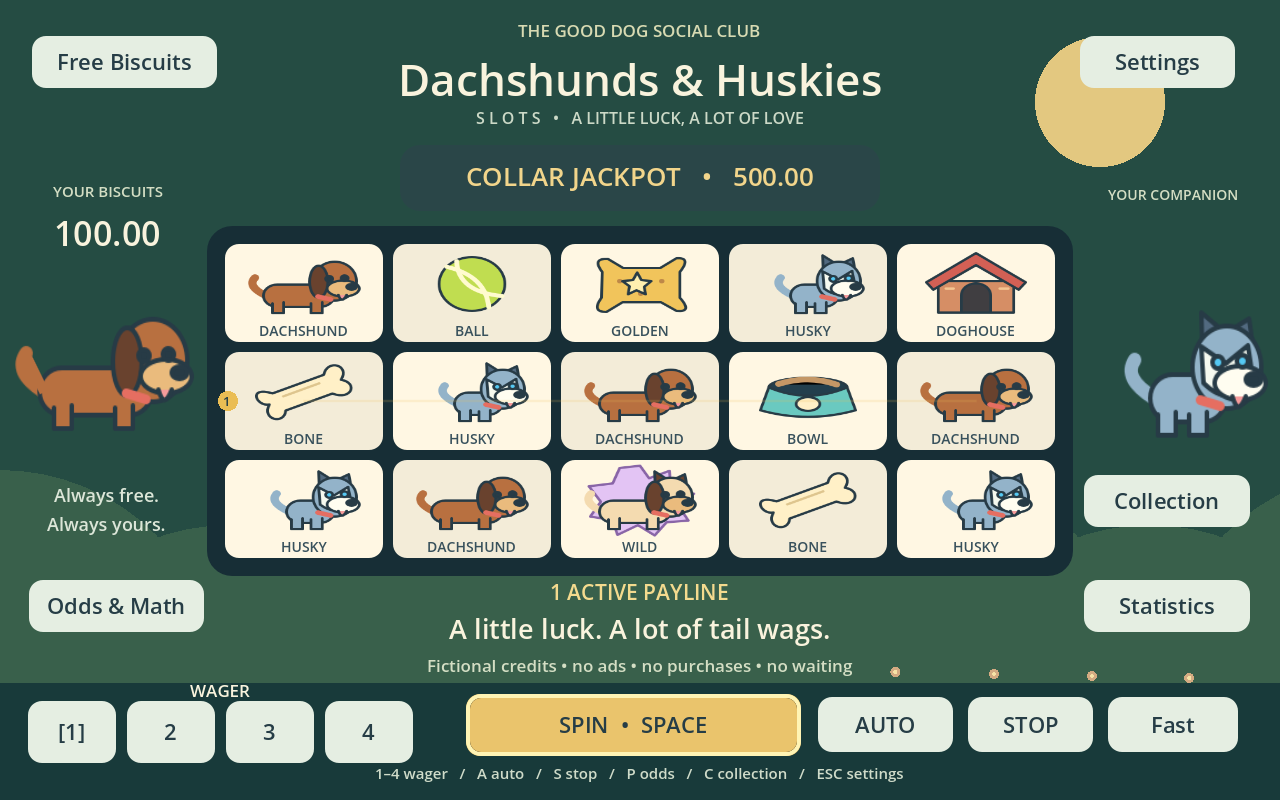
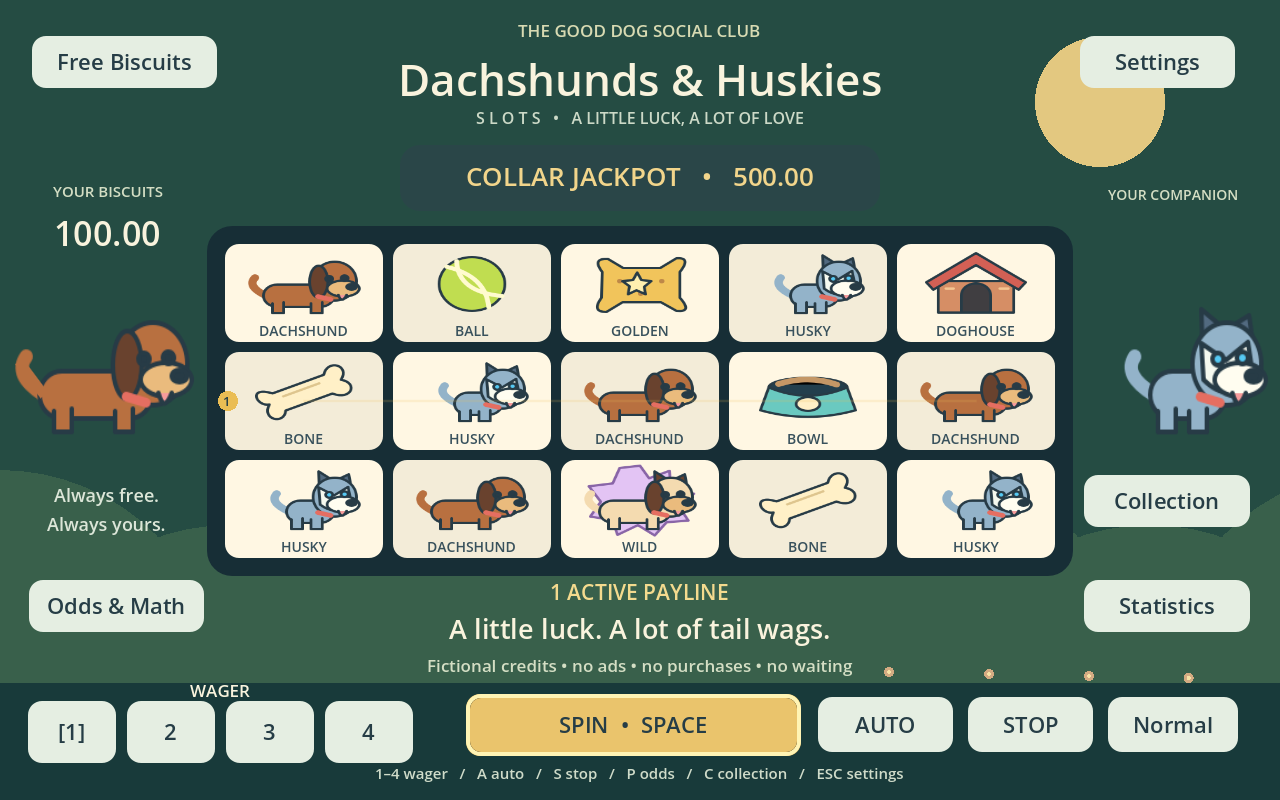
Document verified live deployment and native desktop builds

diff --git a/docs/verification.md b/docs/verification.md
@@ -27,6 +27,22 @@
   screen has no developer button. Engine test fixtures can still exercise debug
   outcomes headlessly, without shipping an accessible release debug menu.
 
+## GitHub and live deployment
+
+- [Workflow 36368929987](https://github.com/livonianerd/dog-themed-godot-slot-machine/actions/runs/36368929987)
+  successfully built all three platforms, uploaded both desktop ZIPs/checksums,
+  launched the Linux release, launched the Windows release on `windows-latest`,
+  and deployed Pages.
+- The live site at https://livonianerd.github.io/dog-themed-godot-slot-machine/
+  passed Chromium assertions for Bet 4/wager deduction, spin completion, theme
+  persistence across reload, jackpot persistence, resizing, landscape touch spins
+  and refilling. There were no browser script or asset-loading errors.
+- An initial live theme test needed a longer wait between modal interactions;
+  the test now waits for layout to settle and verifies persisted state. This was
+  a test timing fix, not a probability or gameplay change.
+- Playwright is installed separately under `/tmp/dog-browser`; no other project
+  is needed or modified by the repository or verification scripts.
+
 ## Reproduce
 
 `bash tools/build.sh` runs exact math, unit checks and integration checks before
@@ -36,8 +52,9 @@ The simulation isn't repeated on every push; exact mathematical validation is.
 
 ## Deliberate scope and limitations
 
-- Native Windows execution has not been tested on a Windows machine; its release
-  export and package are built automatically. Desktop binaries are unsigned.
+- Windows and Linux releases both passed native headless launch tests. A full
+  interactive desktop GUI session on Windows has not been manually tested.
+  Desktop binaries are unsigned.
 - Palette variants represent the six additional breeds. The Dachshund and Husky
   have distinct original silhouettes; accessory selections are actual overlays.
 - Barks/howls and music are synthesized, not studio recordings. No recorded audio

diff --git a/README.md b/README.md
@@ -192,5 +192,5 @@ MIT. All game-specific SVG art and audio are original and reproducible with
 Barks/howls are simple synthesized effects. Dog breeds beyond the two leads
 are stylized palette variants, not anatomically detailed models. Portrait,
 cloud saves, native mobile packages and real-money features are not included.
-Windows export is built automatically; native Windows runtime testing requires
-a Windows machine. See verification notes for exactly what was tested.
+Windows and Linux release executables passed native headless CI launch tests;
+a full interactive Windows GUI session has not been manually tested. See verification notes for exactly what was tested.
